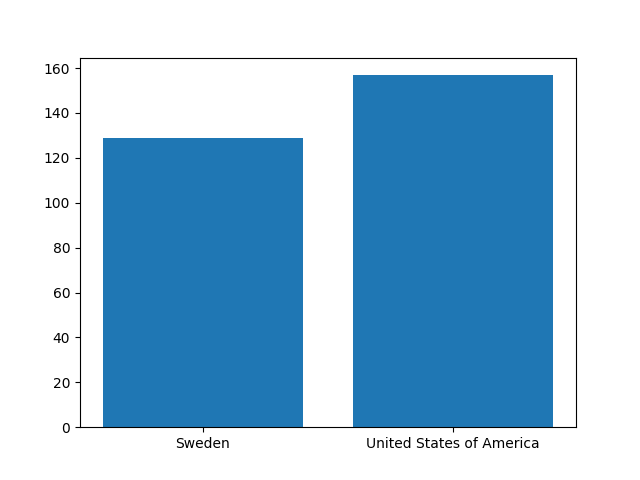
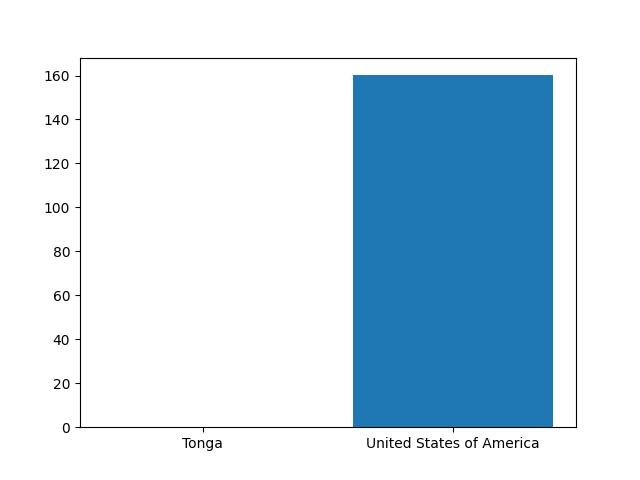
Set up example graph take one input

diff --git a/src/py/example_graphs.py b/src/py/example_graphs.py
@@ -1,30 +1,68 @@
-import import_data 
+import import_data
 import user_interact
 import matplotlib.pyplot as plt
 import numpy as np
 
 
 def Test_Graph():
-		
-		#Get index for graphs
-		#print(dt[dt["Name"]=="Sweden"].index.values)s	
-		#Select specfic row for use in analysis
-		Data = import_data.dt["Deaths - cumulative total per 100000 population"]
-		Name =  import_data.dt["Name"]
-		print(Data)
-		
-		# Plot countries 
-		#xpoints = np.array(["Sweden", "United States of America"])
-		xpoints = (Name[29], Name[1])
-		ypoints = (Data[29], Data[1]) 
 
-		#could potentially add a user input system for this? for example
-			#X = input()/
-			#Name[X]
-		#give the user a command that lists all the countries and their index's
-
+	#Get index for graphs
+	#print(dt[dt["Name"]=="Sweden"].index.values)s
+	#Select specfic row for use in analysis
+	Data = import_data.dt["Deaths - cumulative total per 100000 population"]
+	Name =  import_data.dt["Name"]
+	print(Name)
+	X = input().lower()
+	#Y = input()
+	# Plot countries
+	#xpoints = np.array(["Sweden", "United States of America"])
+	count = 0
+	exist = False
+	
+	for i in Name:
+		if X == i.lower():
+			#list.index()
+			xpoints = (Name[count], Name[1])
+			ypoints = (Data[count], Data[1])	
+			exist = True
+			break
+		else:
+			count = count + 1	
+			
+	if exist:
 		plt.bar(xpoints, ypoints)
 		plt.savefig('Deaths - cumulative total per 100000 population')
 		plt.show()
+	else:
+		print("youve joed")
+		quit()
 
+		
+def Infection_Rate_Country():
 
+	Name =  import_data.dt["Name"]
+
+	print("below is test")
+	Out = Name.to_json()
+	
+	print(Out)
+	
+class Data_To_JSON:
+	def __init__(countries, byY):
+		# Countries are the country names (should be a list)
+		#byY is the comparison, be it deaths, 
+		O1 = user_interact.UserInput()
+		O1.Checker()
+
+		inputtest = input("Country name mate: ")
+		
+		#Look familiar? Its from example_graphs.py, it should be fairly similar in concept.
+		#Throws all the data for each country (and their corresponding collumn) into a couple of panda.series, which we concat
+		#And then return as JSON
+		x = []
+		xtest = []
+		for xin in inputtest:
+			x.append(import_data.dt.loc[import_data.dt['Name'] == xin, [byY]]) # Locates precice data in the database for the input
+		
+		g = pd.concat([inputtest,x]) # Think this'll work?
+		g.to_json()#Gonna need to test this

diff --git a/src/py/import_data.py b/src/py/import_data.py
@@ -1,6 +1,6 @@
 import numpy as np
 import pandas as pd
-
+import json
 
 class WHO_Data_Set:
    
@@ -10,7 +10,7 @@ class WHO_Data_Set:
 		global dt
 		dt = pd.read_csv('https://covid19.who.int/WHO-COVID-19-global-table-data.csv')
 		#pd.DataFrame.reset_index()
-		dt.reset_index(drop=True)
+		#dt.index(drop=True)
 		pd.set_option("display.max_rows", None, "display.max_columns", None)
 		# Deletes the "total" data keeping the "in 100,000 ones - may not keep this just idea"
 		del dt['Cases - newly reported in last 24 hours']
@@ -20,11 +20,5 @@ class WHO_Data_Set:
 		#  dt.columns = []
 
 		# Prints top five rows of table
-		print(dt.head(5))
+		#print(dt.head(5))
 
-	# Test/Example Graphs
-	
-   # def Selected_Data():
-
-	#	user_interact.Input.Selection(x)
-	 #   test = dt[x]

diff --git a/src/py/main.py b/src/py/main.py
@@ -5,6 +5,7 @@ import example_graphs
 
 import numpy as np
 import pandas as pd
+import datetime as DT 
 
 from flask import Flask
 from flask_cors import CORS
@@ -20,20 +21,22 @@ def hello():
 	return 'hello lincoln group work'
 
 # /help command
+#testinput - input("Type /Help for commands: ")
+#if testinput == '/Help':
+#    print("placeholer")
 
 # Getting todays date
-today = pd.to_datetime("today")
-
+today = DT.date.today()
 # Getting date of 7 days ago?
-
+#week = today - DT.timedelta(days-7)
 print(today)
 
 import_data.WHO_Data_Set()
+#example_graphs.Infection_Rate_Country()
 #import_data.WHO_Data_Set.Test_Graph()
-O1 = user_interact.UserInput()
-O1.Checker()
+#example_graphs.Data_To_JSON()
 
-#example_graphs.Test_Graph()
+example_graphs.Test_Graph()
 
 
 

diff --git a/src/py/User_Interact.py b/src/py/User_Interact.py
@@ -23,7 +23,7 @@ class UserInput:
 		tester = self.Country 
 		print(tester)
 		#for 
-		print(import_data.dt["Name"])
+		#print(import_data.dt["Name"])
 		#O1 = UserInput()
 		count = 0
 		while count < len(import_data.dt["Name"]):
